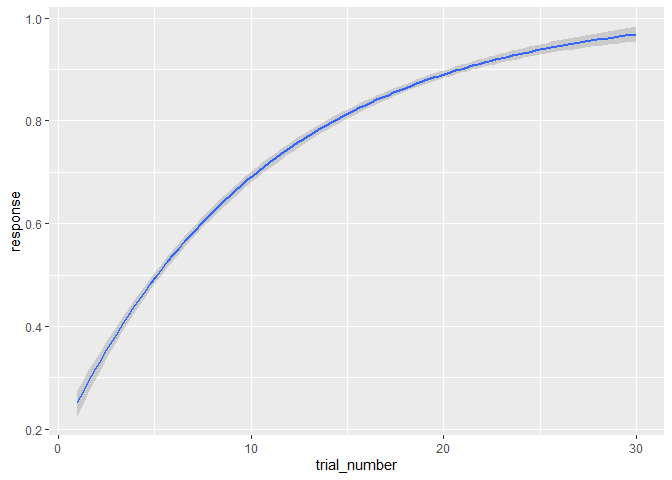
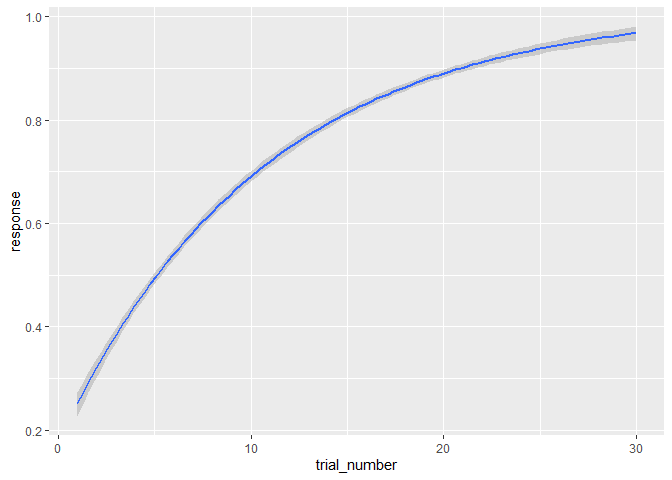
update README

diff --git a/README.md b/README.md
@@ -95,13 +95,13 @@ summary(mod_TEbrm)
     ## 
     ## Population-Level Effects: 
     ##                  Estimate Est.Error l-95% CI u-95% CI Rhat Bulk_ESS Tail_ESS
-    ## pStart_Intercept     0.25      0.01     0.23     0.28 1.01      542      557
-    ## pRate_Intercept      2.88      0.08     2.72     3.06 1.00      401      437
-    ## pAsym_Intercept      1.02      0.01     0.99     1.05 1.00      460      491
+    ## pStart_Intercept     0.25      0.01     0.23     0.27 1.00      517      708
+    ## pRate_Intercept      2.87      0.08     2.72     3.02 1.01      438      634
+    ## pAsym_Intercept      1.02      0.01     0.99     1.04 1.00      527      777
     ## 
     ## Family Specific Parameters: 
     ##       Estimate Est.Error l-95% CI u-95% CI Rhat Bulk_ESS Tail_ESS
-    ## sigma     0.02      0.00     0.01     0.02 1.01      564      480
+    ## sigma     0.02      0.00     0.01     0.02 1.00      482      475
     ## 
     ## Samples were drawn using sampling(NUTS). For each parameter, Bulk_ESS
     ## and Tail_ESS are effective sample size measures, and Rhat is the potential
@@ -119,14 +119,11 @@ mod_boot <- TEfit(dat_simple[,c('response','trial_number')],
              bootPars=tef_bootList(resamples = 40))
 ```
 
-    ## 
-    ## Warning: model did not converge at tol = 0.05 . Consider respecifying, allowing more runs, or increasing the convergence tolerance.
-
 ``` r
 plot(mod_boot,plot_title='Time-evolving fit of artificial data with 95% CI from 40 bootstrapped fits')
 ```
 
-![](README_files/figure-markdown_github/model_boot-1.png)
+![](README_files/figure-markdown_github/model_boot_output-1.png)
 
 ``` r
 summary(mod_boot)
@@ -135,35 +132,34 @@ summary(mod_boot)
     ## 
     ## >> Formula: response~((pAsym) + ((pStart) - (pAsym)) * 2^((1 - trial_number)/(2^(pRate))))
     ## 
-    ## >> Converged: FALSE 
-    ## >> Max runs: 200  -- Tolerance: 0.05 
+    ## >> Converged: TRUE 
     ## 
     ## >> Fit Values:
     ##        Estimate  Q025  Q975 pseudoSE
-    ## pAsym     0.998 0.988 1.000    0.003
-    ## pRate     2.706 2.576 2.836    0.066
-    ## pStart    0.233 0.160 0.262    0.026
+    ## pAsym     0.998 0.988 0.999    0.003
+    ## pRate     2.746 2.597 2.845    0.063
+    ## pStart    0.224 0.177 0.288    0.028
     ## 
     ## >> Goodness-of-fit:
     ##                err  nullErr nPars nObs      BIC  nullBIC    deltaBIC
-    ## bernoulli 13.42648 16.83409     3   30 37.05655 37.06937 -0.01282454
+    ## bernoulli 13.42633 16.83409     3   30 37.05624 37.06937 -0.01312702
     ## 
     ## >> Test of change in nonindependence:
     ##                          rawSpearman modelConditionalSpearman
-    ## response ~ trial_number:          -1              -0.09499444
+    ## response ~ trial_number:          -1                0.0269188
     ##                          proportionalSpearmanChange pValSpearmanChange
-    ## response ~ trial_number:                 0.09499444                  0
+    ## response ~ trial_number:                  0.0269188                  0
     ## 
     ## >> Percent of resamples predicting an increase in values: 100 
     ## 
     ## >> Timepoint at which resampled estimates diverge from timepoint 1, with Cohen's d>1: 2 
     ## 
     ## >> Bootstrapped parameter correlations:
-    ##         pAsym pStart  pRate    err
-    ## pAsym   1.000 -0.258 -0.026 -0.305
-    ## pStart -0.258  1.000  0.661  0.506
-    ## pRate  -0.026  0.661  1.000  0.056
-    ## err    -0.305  0.506  0.056  1.000
+    ##         pAsym pStart pRate    err
+    ## pAsym   1.000 -0.032 0.235 -0.304
+    ## pStart -0.032  1.000 0.462  0.565
+    ## pRate   0.235  0.462 1.000  0.143
+    ## err    -0.304  0.565 0.143  1.000
 
 Fitting multiple models
 -----------------------
@@ -201,9 +197,9 @@ summary(mod_4group)
     ## >> Formula: response ~ ((pAsym) + ((pStart) - (pAsym)) * 2^((1 - trial_number)/(2^(pRate))))
     ## 
     ## >> Overall effects:
-    ##             pAsym     pStart     pRate
-    ## mean   0.14922722 0.01639029 3.8336655
-    ## stdErr 0.03933405 0.01060450 0.0243155
+    ##             pAsym     pStart      pRate
+    ## mean   0.14922713 0.01639029 3.83366412
+    ## stdErr 0.03933398 0.01060450 0.02431687
     ## 
     ##                 err    nullErr nPars nObs      Fval         Pval   Rsquared
     ## mean   3.005041e-04 0.03071614     3   30 1692.5939 1.110223e-16 0.97598962
@@ -257,23 +253,23 @@ summary(mod_4group_TEbrm)
     ## Group-Level Effects: 
     ## ~group (Number of levels: 4) 
     ##                      Estimate Est.Error l-95% CI u-95% CI Rhat Bulk_ESS
-    ## sd(pStart_Intercept)     0.04      0.03     0.01     0.12 1.01      483
-    ## sd(pRate_Intercept)      1.62      0.71     0.71     3.41 1.01      580
-    ## sd(pAsym_Intercept)      0.07      0.06     0.01     0.27 1.00      389
+    ## sd(pStart_Intercept)     0.03      0.03     0.01     0.11 1.01      478
+    ## sd(pRate_Intercept)      1.67      0.78     0.70     3.63 1.00      618
+    ## sd(pAsym_Intercept)      0.08      0.08     0.01     0.33 1.02      202
     ##                      Tail_ESS
-    ## sd(pStart_Intercept)      378
-    ## sd(pRate_Intercept)       714
-    ## sd(pAsym_Intercept)       580
+    ## sd(pStart_Intercept)      523
+    ## sd(pRate_Intercept)       662
+    ## sd(pAsym_Intercept)       234
     ## 
     ## Population-Level Effects: 
     ##                  Estimate Est.Error l-95% CI u-95% CI Rhat Bulk_ESS Tail_ESS
-    ## pStart_Intercept     0.02      0.02    -0.02     0.06 1.01      635      463
-    ## pRate_Intercept      4.63      0.63     3.20     5.69 1.00      583      533
-    ## pAsym_Intercept      0.22      0.04     0.12     0.29 1.00      584      426
+    ## pStart_Intercept     0.02      0.02    -0.01     0.06 1.00      633      621
+    ## pRate_Intercept      4.64      0.61     3.20     5.64 1.00      514      563
+    ## pAsym_Intercept      0.22      0.04     0.11     0.29 1.01      280      186
     ## 
     ## Family Specific Parameters: 
     ##       Estimate Est.Error l-95% CI u-95% CI Rhat Bulk_ESS Tail_ESS
-    ## sigma     0.00      0.00     0.00     0.00 1.00     1240      958
+    ## sigma     0.00      0.00     0.00     0.00 1.00     1322     1032
     ## 
     ## Samples were drawn using sampling(NUTS). For each parameter, Bulk_ESS
     ## and Tail_ESS are effective sample size measures, and Rhat is the potential
@@ -297,9 +293,9 @@ lines(dat_simple$trial_number,fitted(mod_lm),col='green',lty=2,lwd=2)
 
 TElm parameter estimates:
 
-|  X.Intercept.|  trial\_number|  rate|
-|-------------:|--------------:|-----:|
-|         1.017|         -0.766|  2.87|
+|  X.Intercept.|  trial\_number|   rate|
+|-------------:|--------------:|------:|
+|         1.017|         -0.766|  2.873|
 
 TEfit parameter estimates:
 
